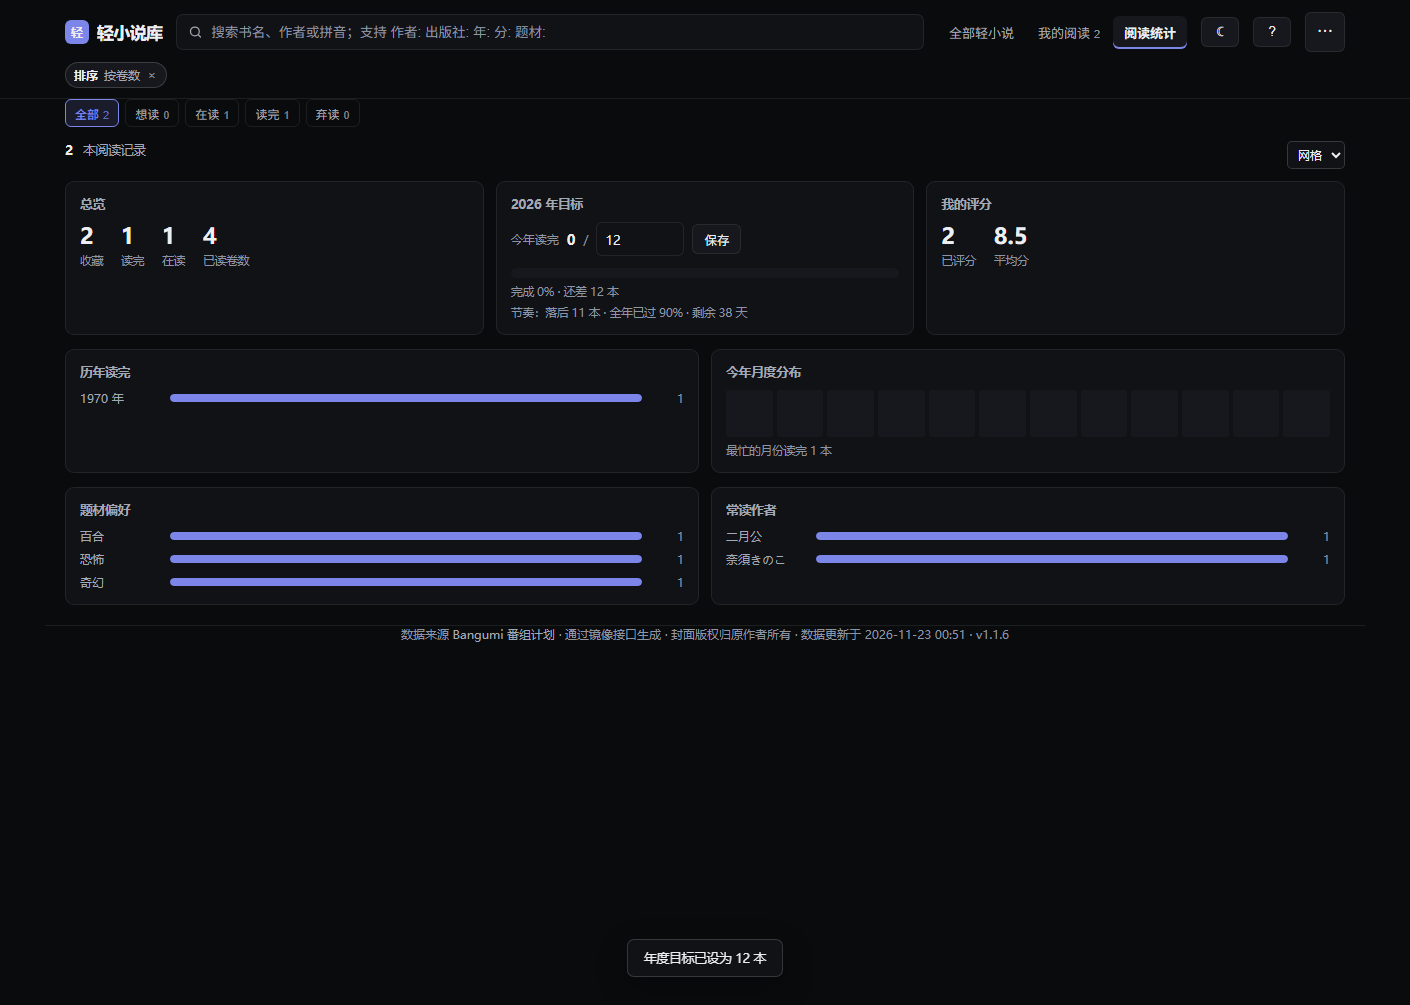
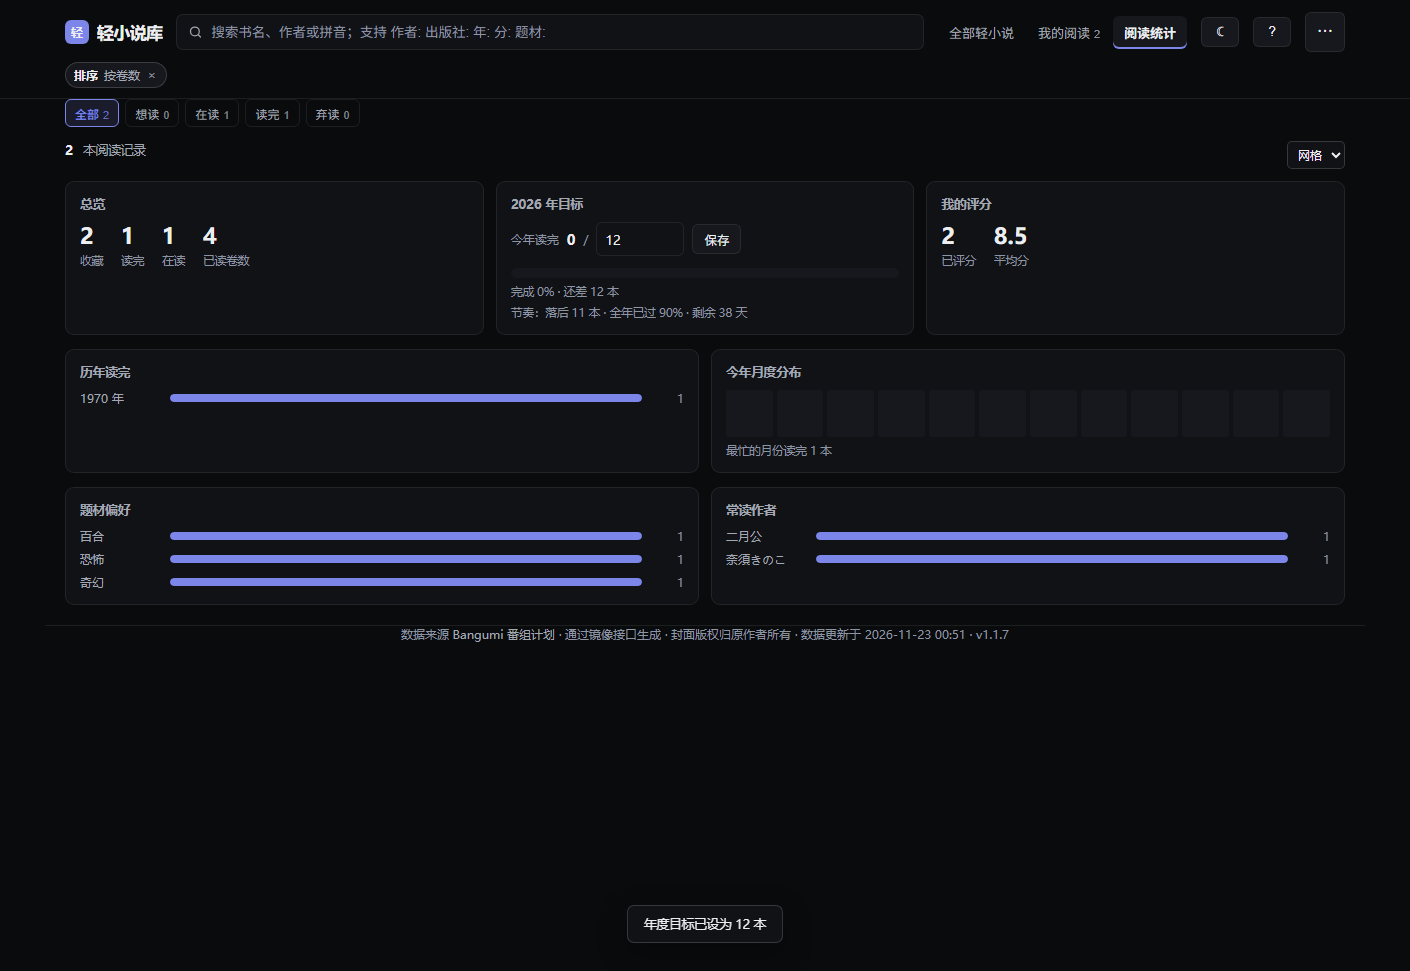
improve: 筛选结果无障碍播报与当前视图 aria-current（参考 W3C ARIA22）

diff --git a/index.html b/index.html
@@ -18,7 +18,7 @@
 <link rel="preconnect" href="https://bgmimg.anibt.net" crossorigin>
 <link rel="dns-prefetch" href="https://bgmimg.anibt.net">
 <meta name="theme-color" content="#0a0b0d">
-<meta name="version" content="1.1.6">
+<meta name="version" content="1.1.7">
 <style>
   :root {
     --bg: #0d0f14;
@@ -1388,6 +1388,19 @@
 
   .skip-link:focus { left: 20px; }
 
+  /* 屏幕阅读器专用文本：用于播报筛选后的结果数 */
+  .sr-only {
+    position: absolute;
+    width: 1px;
+    height: 1px;
+    padding: 0;
+    margin: -1px;
+    overflow: hidden;
+    clip: rect(0 0 0 0);
+    white-space: nowrap;
+    border: 0;
+  }
+
   #grid:focus { outline: none; }
   #grid:focus-visible { outline: 1px solid var(--line-strong); outline-offset: 6px; border-radius: 8px; }
 
@@ -2412,8 +2425,8 @@
         <input id="search" type="search" placeholder="搜索书名、作者或拼音；支持 作者: 出版社: 年: 分: 题材:" autocomplete="off" aria-label="搜索书名">
         <div class="searchhist" id="searchHist" hidden></div>
       </div>
-      <nav class="tabs">
-        <button class="tab active" data-tab="all"><span class="tl">全部轻小说</span><span class="ts">全部</span></button>
+      <nav class="tabs" aria-label="主要视图">
+        <button class="tab active" data-tab="all" aria-current="page"><span class="tl">全部轻小说</span><span class="ts">全部</span></button>
         <button class="tab" data-tab="mine"><span class="tl">我的阅读</span><span class="ts">我的</span><span class="count" id="mineCount">0</span></button>
         <button class="tab" data-tab="stats"><span class="tl">阅读统计</span><span class="ts">统计</span></button>
       </nav>
@@ -2546,6 +2559,7 @@
 
   <div class="statusrow" id="statusRow" hidden></div>
 
+  <div class="sr-only" id="resultAnnounce" role="status" aria-live="polite" aria-atomic="true"></div>
   <div class="resultbar" id="resultbar">
     <b id="resultCount">0</b><span id="resultLabel"></span>
     <select class="viewselect" id="viewSelect" aria-label="视图" title="切换视图">
@@ -2570,7 +2584,7 @@
 </main>
 
 <footer class="wrap">
-  数据来源 <a href="https://bgm.tv" target="_blank" rel="noreferrer">Bangumi 番组计划</a> · 通过镜像接口生成 · 封面版权归原作者所有 · 数据更新于 <span id="dataUpdated" title="Bangumi 数据快照生成时间">—</span> · <span title="项目版本">v1.1.6</span>
+  数据来源 <a href="https://bgm.tv" target="_blank" rel="noreferrer">Bangumi 番组计划</a> · 通过镜像接口生成 · 封面版权归原作者所有 · 数据更新于 <span id="dataUpdated" title="Bangumi 数据快照生成时间">—</span> · <span title="项目版本">v1.1.7</span>
 </footer>
 
 <div class="modal" id="modal" hidden>
@@ -3338,7 +3352,10 @@
       hideMineBtn.classList.toggle('primary', state.hideMine);
     }
     document.querySelectorAll('.tab').forEach(function (b) {
-      b.classList.toggle('active', b.dataset.tab === state.tab);
+      var on = b.dataset.tab === state.tab;
+      b.classList.toggle('active', on);
+      if (on) b.setAttribute('aria-current', 'page');
+      else b.removeAttribute('aria-current');
     });
     syncViewSelect();
     renderYears();
@@ -4287,6 +4304,20 @@
     }
   });
 
+  // 无障碍：筛选结果变化后，用礼貌级 live region 朗读结果数；节流避免连续输入时反复打断
+  var announceTimer = 0;
+  var lastAnnounce = '';
+  function announceResults(count, labelText, filterCount) {
+    var text = (filterCount > 0 ? '筛选后 ' : '') + count + ' ' + labelText;
+    if (text === lastAnnounce) return;
+    lastAnnounce = text;
+    clearTimeout(announceTimer);
+    announceTimer = setTimeout(function () {
+      var el = $('resultAnnounce');
+      if (el) el.textContent = text;
+    }, 500);
+  }
+
   function render() {
     // 状态筛选只在「我的阅读」或搜索时生效，其他场景静默清掉，避免出现无效条件
     if (state.tab === 'all' && !state.q.trim()) state.status = 'all';
@@ -4362,6 +4393,7 @@
     }
     $('resultCount').textContent = countText;
     $('resultLabel').textContent = labelText;
+    announceResults(list.length, labelText, filterCount);
     syncViewSelect();
 
     var board = state.tab === 'mine' && state.view === 'board';

diff --git a/sw.js b/sw.js
@@ -1,5 +1,5 @@
 // 应用壳离线缓存：首页网络优先并带超时回退，其余同源资源缓存优先、后台更新
-var CACHE = 'yuc-ln-shell-v9';
+var CACHE = 'yuc-ln-shell-v10';
 var SHELL = ['./', './index.html', './manifest.webmanifest', './icon.svg', './icons/icon-180.png', './icons/icon-192.png', './icons/icon-512.png', './data/light-novels.js'];
 var IMG_LIMIT = 400;
 

diff --git a/README.md b/README.md
@@ -2,7 +2,9 @@
 
 本地优先的轻小说浏览与阅读记录 PWA。内置 Bangumi「轻小说」标签条目 4007 条，无账号、无后端。
 
-状态：**v1.1.6 已完成**（数据、页面、书评、统计、云同步、PWA、自动化验收 135 项）
+状态：**v1.1.7 已完成**（数据、页面、书评、统计、云同步、PWA、自动化验收 138 项）
+
+v1.1.7：筛选或搜索后，结果数通过礼貌级 live region 自动播报给屏幕阅读器；顶部视图标签补充 `aria-current`，便于辅助技术识别当前所在视图。
 
 v1.1.6：设置面板新增离线缓存概览（封面缓存张数与占用），可一键清理封面缓存；Service Worker 改为立即注册，并在页面重新可见时主动检查更新。
 
@@ -54,7 +56,7 @@ npm run clean-series  # 用本地缓存离线重算子卷
 npm run check-data    # 数据校验
 npm run build-pinyin  # 离线重算拼音首字母
 npm run test-merge    # 同步合并逻辑单元测试
-npm run verify        # 无头浏览器自动化验收（135 项）
+npm run verify        # 无头浏览器自动化验收（138 项）
 ```
 
 `npm run verify` 会在 `screenshots/` 输出桌面与移动端截图。
